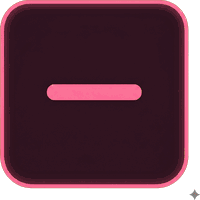
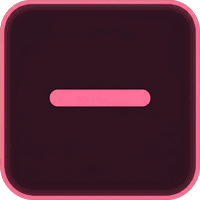
fix: speed 버튼 Gemini 워터마크 제거 + 스크립트 우하단 200px 마스킹 추가

diff --git a/scripts/process_speed_btn.py b/scripts/process_speed_btn.py
@@ -17,6 +17,13 @@ DST = os.path.join(ROOT, f'skins/neon/speed/speed_{variant}.png')
 img = Image.open(SRC).convert('RGBA')
 print(f'src: {img.size}, {os.path.getsize(SRC)/1024:.1f}KB')
 
+# Gemini 워터마크 제거 — 우하단 코너 (원본 해상도 기준 최대 200x200)
+arr = np.array(img)
+h, w = arr.shape[:2]
+arr[h-200:h, w-200:w, 3] = 0
+img = Image.fromarray(arr, 'RGBA')
+print('watermark corner cleared')
+
 # 초록 크로마키 제거
 arr = np.array(img)
 mask = (arr[:, :, 1] > 150) & (arr[:, :, 0] < 120) & (arr[:, :, 2] < 120)
